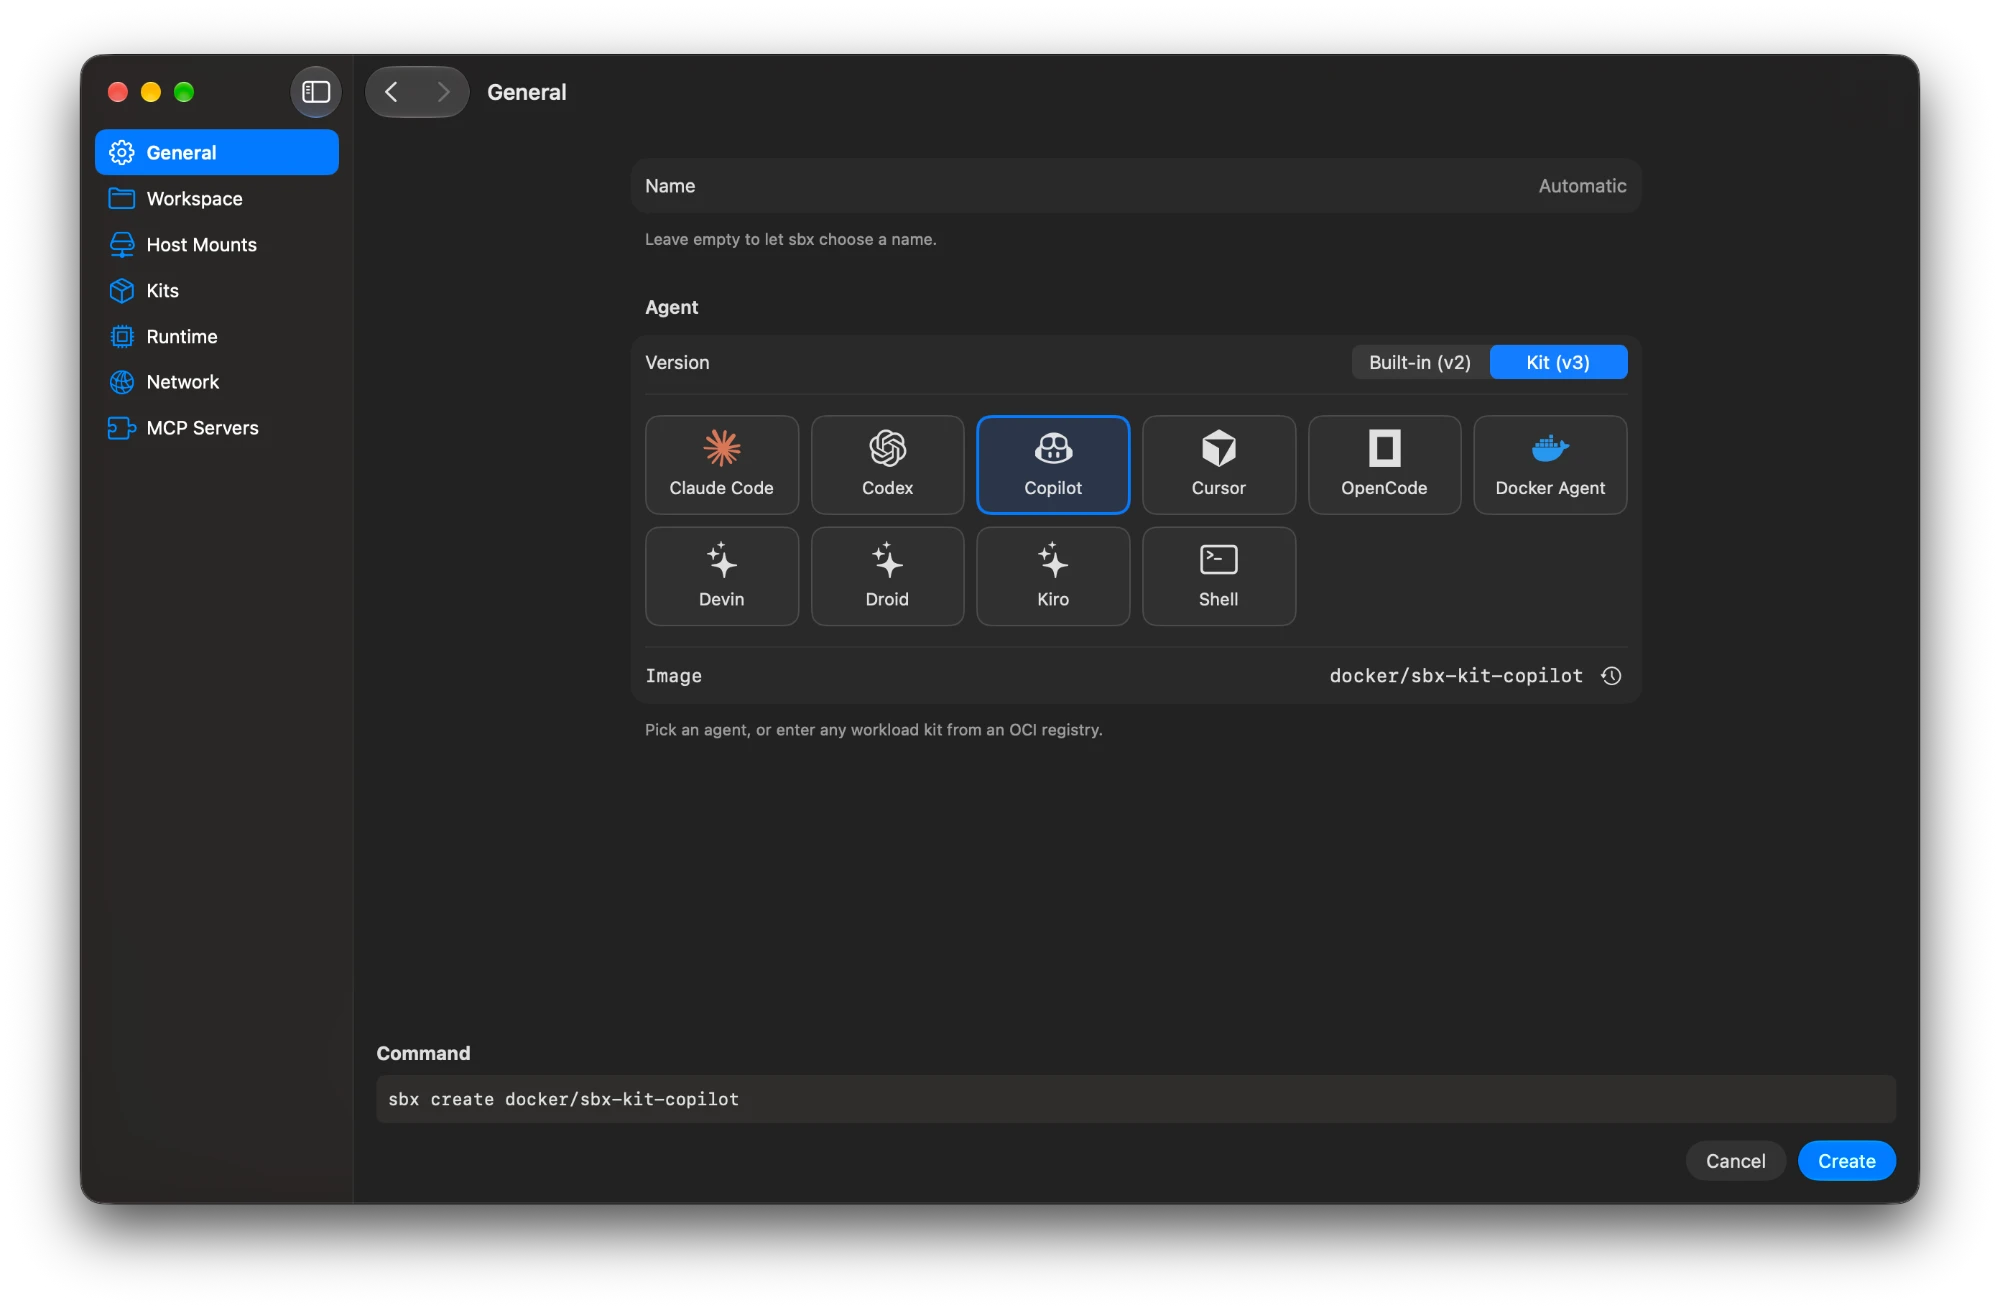
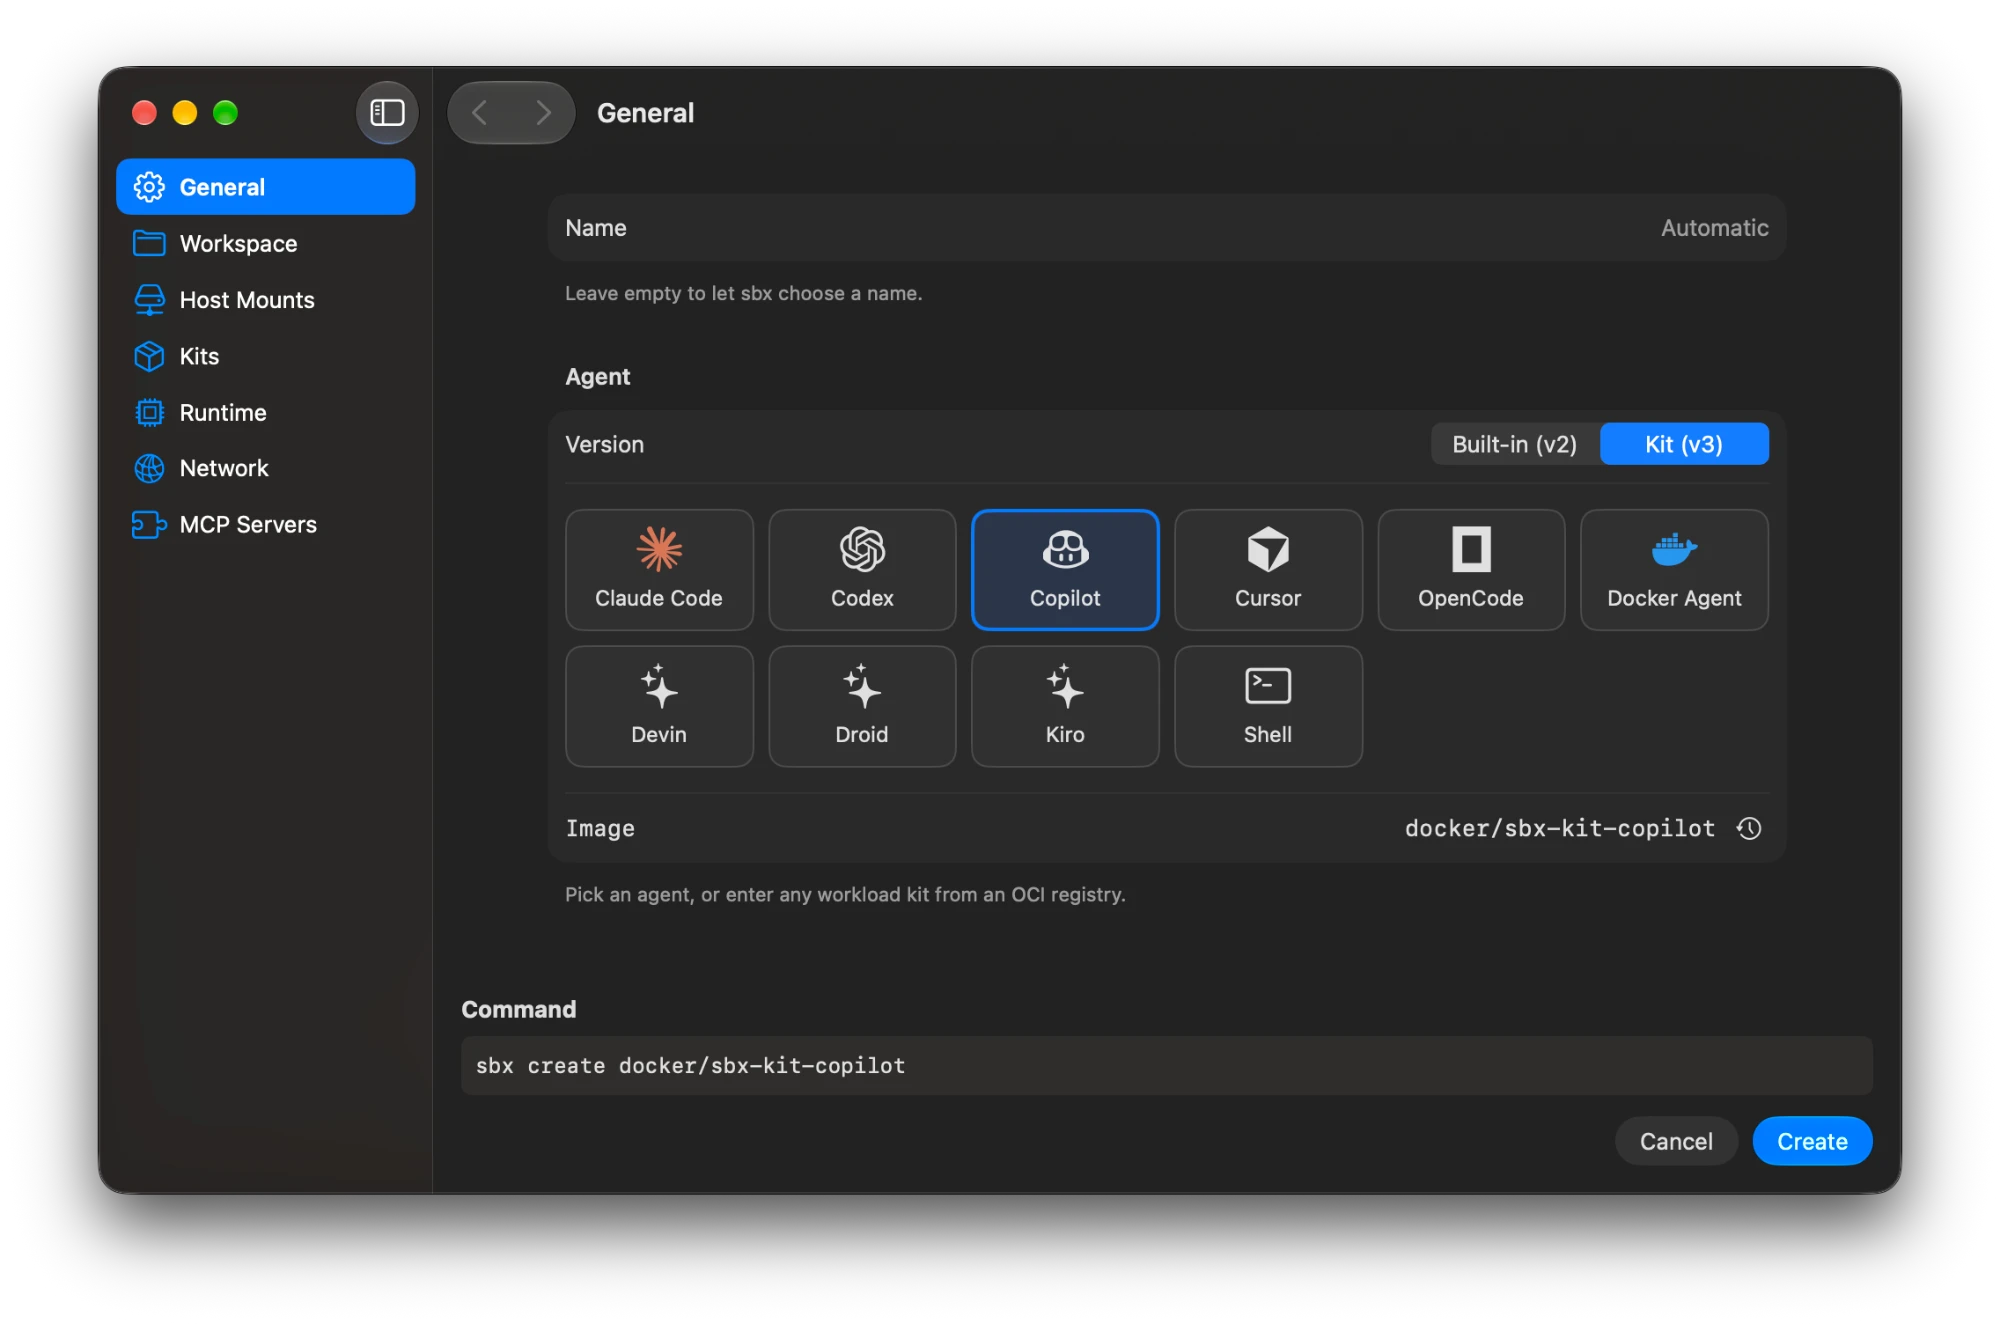
Use a tighter New Sandbox window screenshot on the website

diff --git a/site/index.html b/site/index.html
@@ -64,7 +64,7 @@
               <li>Run a sandbox’s agent in your terminal, or open the sandbox in <a href="https://claude.ai/download">Claude Desktop</a>.</li>
             </ul>
           </div>
-          <img class="shot" src="screenshots/new-sandbox-window.webp" width="1000" height="655" alt="The New Sandbox window, with Copilot picked from a grid of agents, sections for the workspace, host mounts, kits, runtime, network and MCP servers in the sidebar, and the sbx command it will run">
+          <img class="shot" src="screenshots/new-sandbox-window.webp" width="1000" height="662" alt="The New Sandbox window, with Copilot picked from a grid of agents, sections for the workspace, host mounts, kits, runtime, network and MCP servers in the sidebar, and the sbx command it will run">
         </div>
 
         <div class="feature reverse">
